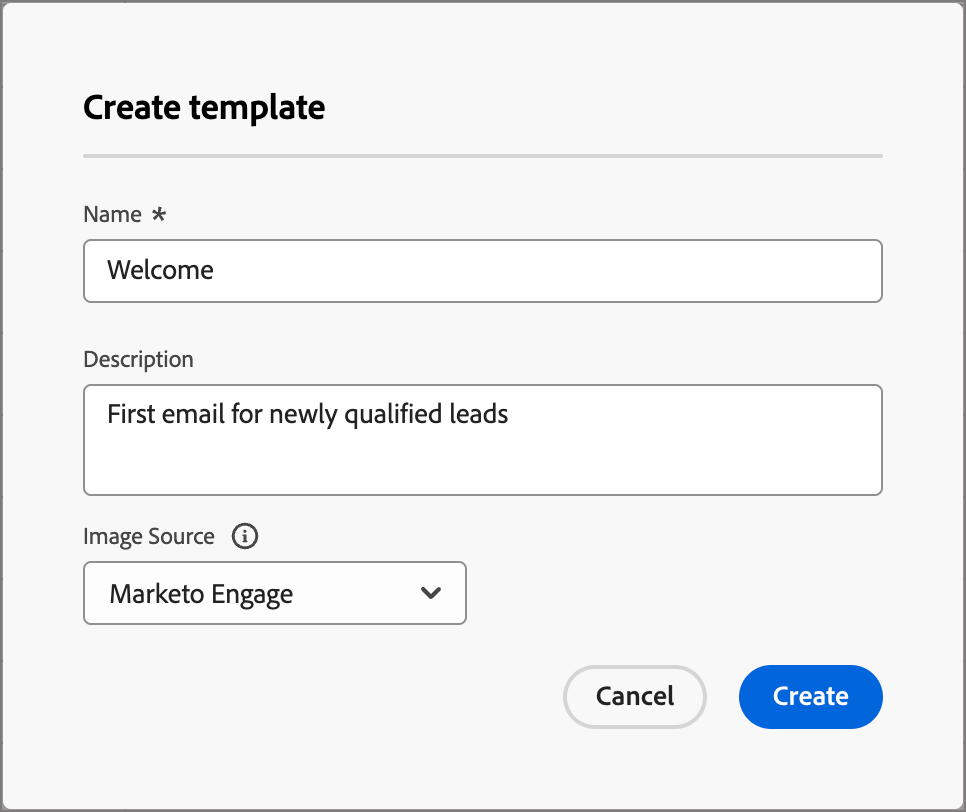
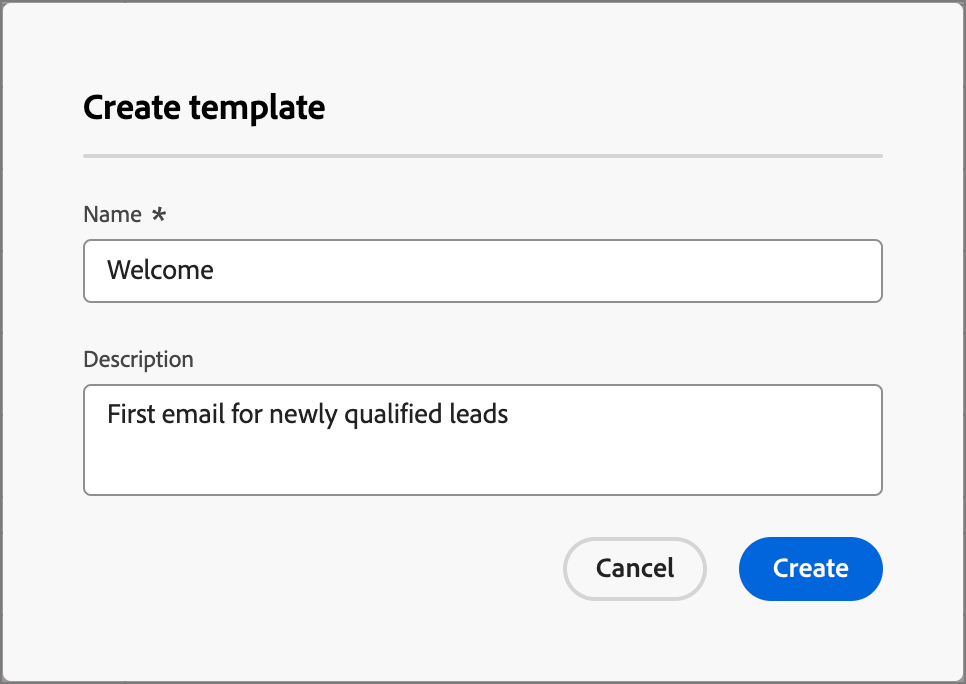
Update templates for image source changes

diff --git a/help/user/content/email-templates.md b/help/user/content/email-templates.md
@@ -1,6 +1,6 @@
 ---
 title: Email Templates
-description: Learn how to manage and create email templates that can be used to author account journey emails easily and efficiently.
+description: Learn how to manage and create email templates that are used to author account journey emails easily and efficiently.
 feature: Email Authoring, Content
 exl-id: 4e146802-e3ef-4528-b581-191e28afe86f
 ---
@@ -12,7 +12,7 @@ For an accelerated and improved design process, you can create standalone email 
 
 To access email templates in Adobe Journey Optimizer B2B edition, go to the left navigation and click **[!UICONTROL Content Management]** > **[!UICONTROL Templates]**. This action opens a listing page with all the email templates created in the instance listed in a table.
 
-The table is sorted by the _[!UICONTROL Modified]_ column, with the most recently updated templates at the top of the list by default. Click the column title to change between ascending and descending.
+The table is sorted by the _[!UICONTROL Modified]_ column by default, with the most recently updated templates at the top. Click the column title to change between ascending and descending.
 
 To search for a template by name, enter a text string in the search bar. Click the _Filter_ icon at the top left to filter the list according to creation or modification dates, and templates that you have created or modified.
 
@@ -29,12 +29,6 @@ You can create an email template from the email template listing page by clickin
 1. In the dialog, enter a useful **[!UICONTROL Name]** and **[!UICONTROL Description]** (optional).
 
    ![Enter initial properties for the new email template](./assets/templates-create-dialog.png){width="400"}
-
-1. Set the initial **[!UICONTROL Image source]**.
-
-   If you have a subscription for Experience Manager Assets as a Cloud Service along with the default Adobe Marketo Engage Design Studio, you can choose image assets from either source. To do that, you must select the image source at the time of creation for an email template, or visual fragment. However, you can also select the image source when you edit the content.
-
-   For more information about image sources, see [Assets](./assets-overview.md).
 
 1. Click **[!UICONTROL Create]**.
 
@@ -88,7 +82,7 @@ In the Templates listing page, click the name of an email template to open the e
 
 * If there are active alerts (errors and warning for the email template), click **[!UICONTROL Alerts]** at the top right to view the information.
 
-   While these alerts do not prohibit use of the email template for email creation, this information provides visibility for marketers on your team about what might not work and the required updates before it can be used for delivery.
+   These alerts do not prohibit use of the email template for email creation. The information provides visibility for marketers on your team about what might not work and the required updates before it can be used for delivery.
 
 ## View email template used-by references
 
@@ -109,7 +103,7 @@ This action can be taken from:
 * The details page - Click **[!UICONTROL Edit email template]**.
 * The listing page - Click the ellipsis (**...**) next to an email template and choose **[!UICONTROL Edit]**.
 
-This action takes you to the _Design your template_ page or the visual content editor page based on the last saved status of the email template. From here, you can edit your email template content as needed. See [Create email templates](#create-email-templates) for information about the editing options.
+This action takes you to the _Design your template_ page or the visual content editor page (based on the last saved status of the email template). From here, you can edit your email template content as needed. See [Create email templates](#create-email-templates) for information about the editing options.
 
 ## Duplicate email templates
 

diff --git a/help/_includes/snippets.md b/help/_includes/snippets.md
@@ -40,11 +40,7 @@ description: Reused notes and visual elements to note a feature or page applying
 
    Double-click the folder that contains your assets. Drag and drop the items into a structure component.
 
-   >[!NOTE]
-   >
-   >If you have a subscription for Experience Manager Assets as a Cloud Service along with the default Adobe Marketo Engage Design Studio, you must choose the [image source](../user/content/assets-overview.md#choose-an-asset-source) at the time of creation for an email, email template, or visual fragment. However, you can also select the image source before you open the content designer for editing.
-
-   For more information about using assets from your source type, see [Add assets to your content](../user/content/assets-overview.md#add-assets-to-your-content).
+   For more information about using assets from your source type, see [Add assets to your content](../user/content/assets-overview.md#use-assets-for-content-authoring).
 
    ![Drag a Marketo Engage asset onto the canvas and adjust the settings](../assets/content-design-shared/content-design-add-asset.png){width="800" zoomable="yes"}
 
@@ -58,6 +54,6 @@ description: Reused notes and visual elements to note a feature or page applying
 
 ## Content authoring - links tracking step {#links-tracking-step}
 
-1. Select the **[!UICONTROL Links]** tab from the left pane to display all the URLs of your content that are tracked.
+1. Select the **[!UICONTROL Links]** tab from the left pane to display all the URLs of your content that is tracked.
 
    You can modify the _Tracking Type_ or _Label_ and add tags if needed.
